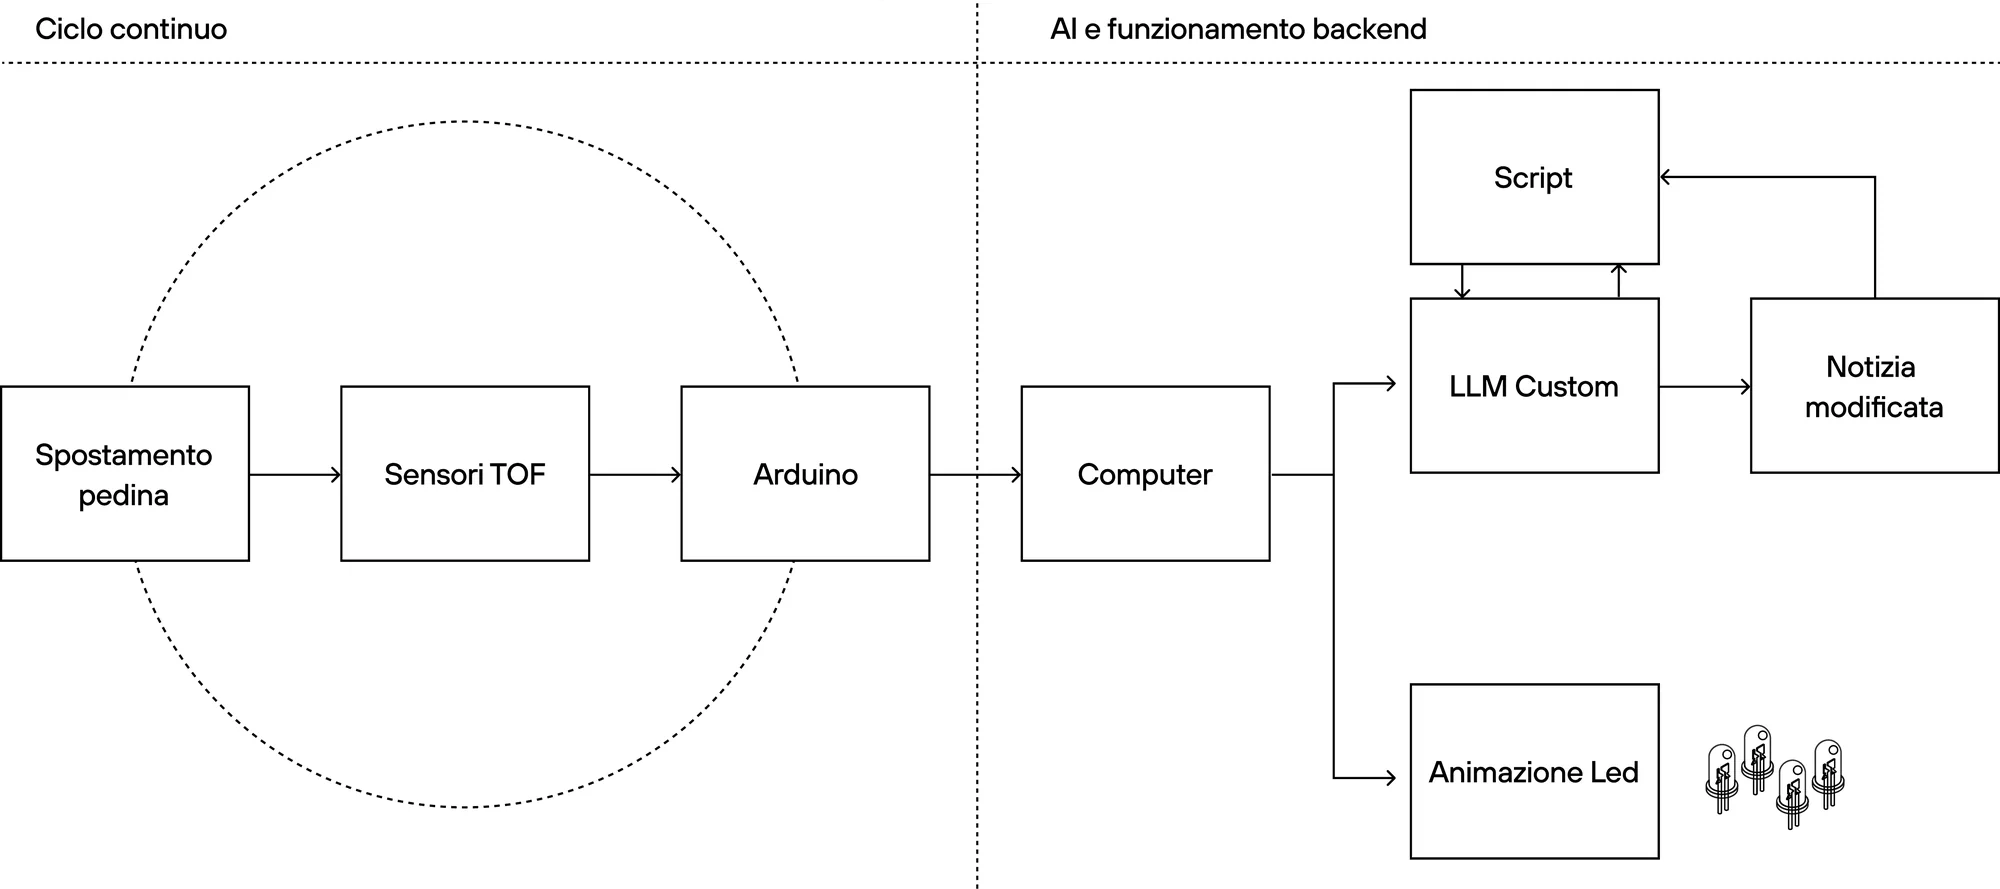
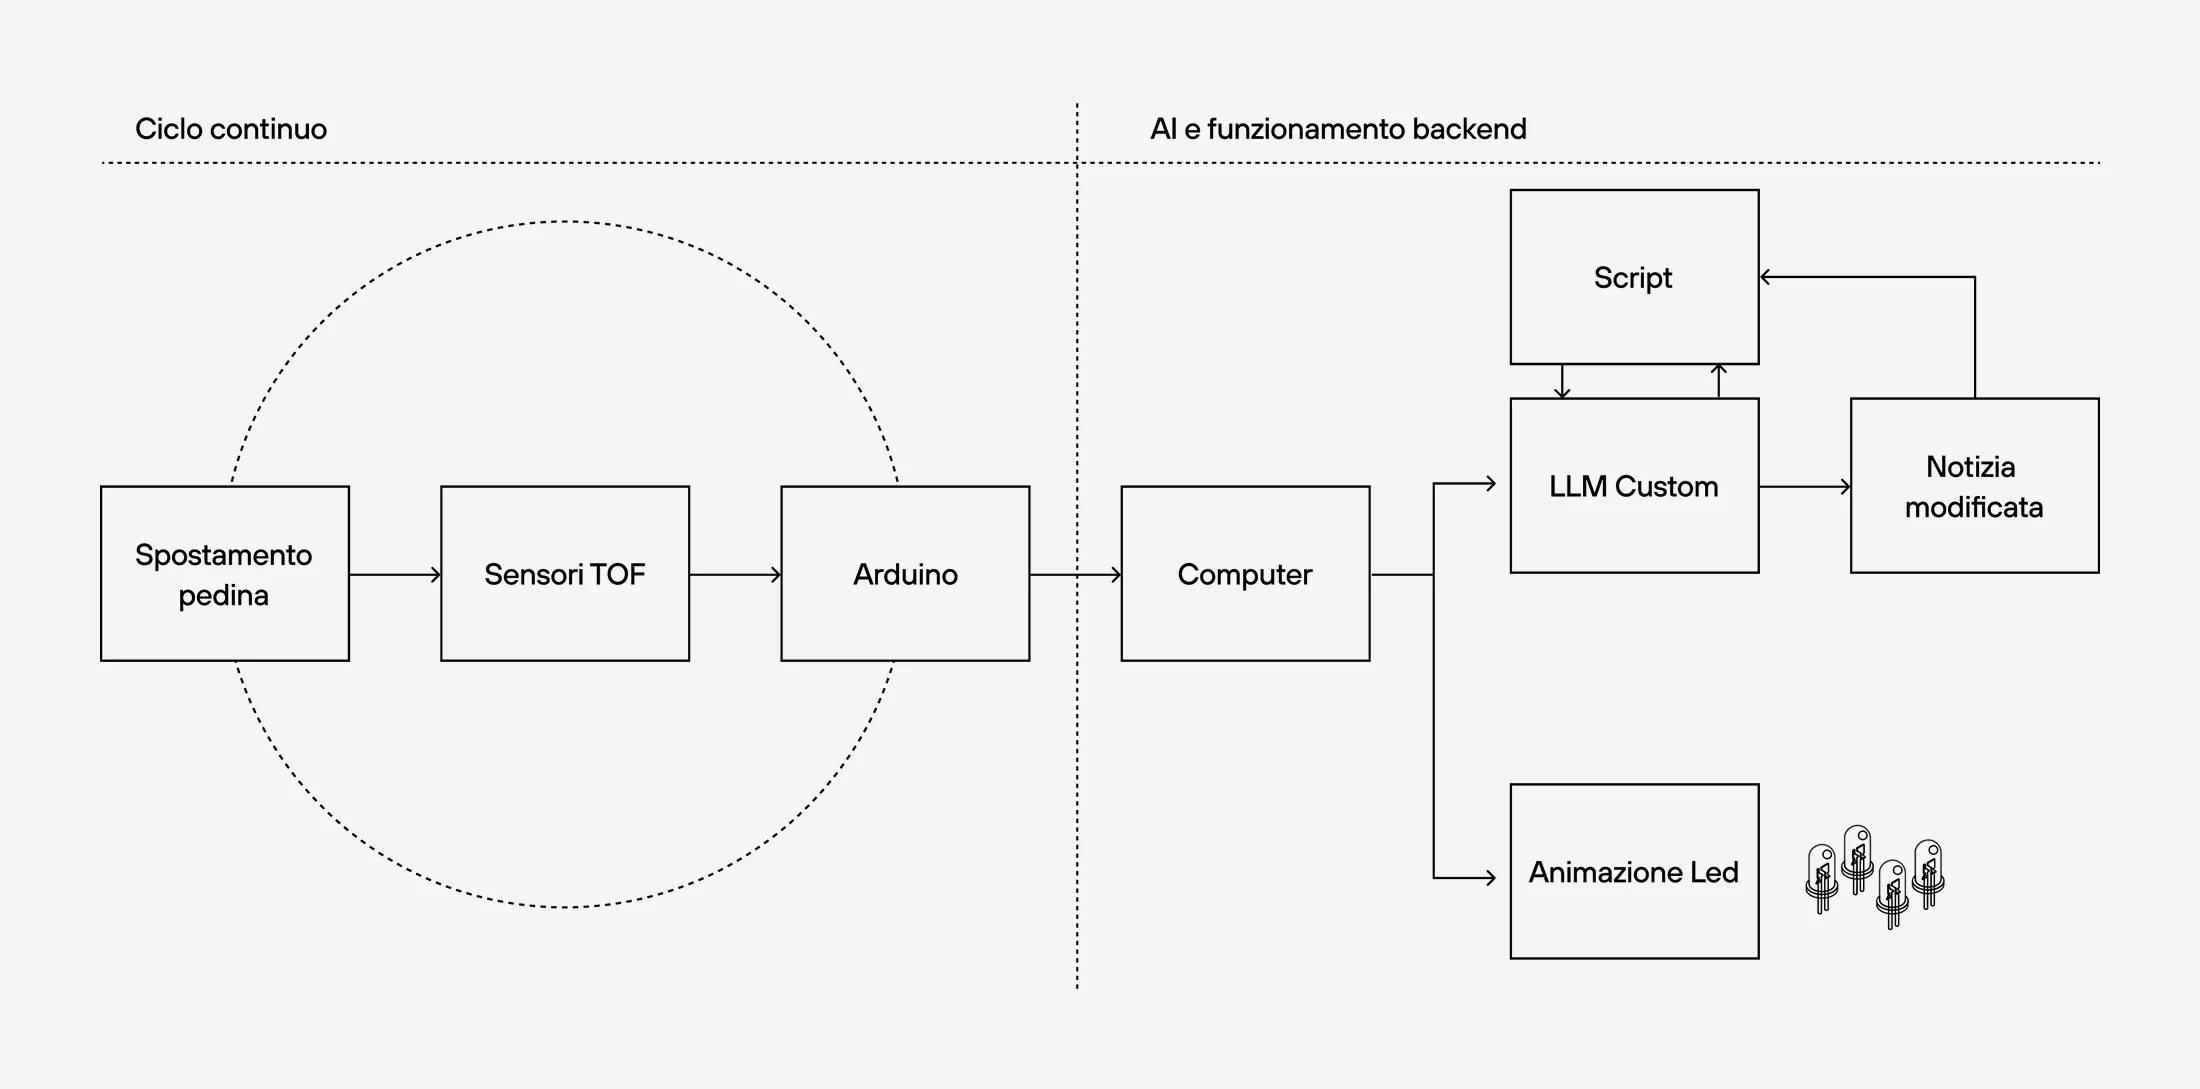
Fragma: schemi senza cornici nere, matrice LED ridisegnata in alta risoluzione, immagini affiancate alla stessa altezza
Claude-Session: https://claude.ai/code/session_01EvswACSyw6Saf2qPUK2J63

diff --git a/v3/fragma.html b/v3/fragma.html
@@ -145,11 +145,11 @@
                 </div>
             </div>
             <div class="figs">
-                <figure class="diagram"><img src="img/fragma/flow.webp" alt="Diagramma del flusso: start, istruzioni, notizia, parametri, sposta le pedine, invio, pubblica" width="2000" height="892" loading="lazy"></figure>
+                <figure><img src="img/fragma/flow.webp" alt="Diagramma del flusso: start, istruzioni, notizia, parametri, sposta le pedine, invio, pubblica" width="2200" height="1092" loading="lazy"></figure>
                 <p class="cap"><span lang="it">Il flusso dell’esperienza nelle sue quattro fasi: prossimità, attrito, shock, aftermath.</span><span lang="en">The flow of the experience in its four phases: proximity, friction, shock, aftermath.</span></p>
                 <div class="row">
-                    <figure class="diagram" style="flex-grow:1.355"><img src="img/fragma/loop.webp" alt="Disegno di una persona davanti alla macchina con le frecce del ciclo di interazione" width="1400" height="1033" loading="lazy"></figure>
-                    <figure class="diagram" style="flex-grow:2.89"><img src="img/fragma/parametri.webp" alt="Schema che collega i sei parametri alle figure retoriche" width="2000" height="692" loading="lazy"></figure>
+                    <figure style="flex-grow:0.856"><img src="img/fragma/loop.webp" alt="Disegno di una persona davanti alla macchina con le frecce del ciclo di interazione" width="1366" height="1596" loading="lazy"></figure>
+                    <figure style="flex-grow:2.556"><img src="img/fragma/parametri.webp" alt="Schema che collega i sei parametri alle figure retoriche" width="2280" height="892" loading="lazy"></figure>
                 </div>
                 <p class="cap"><span lang="it">A sinistra il ciclo gesto, risposta, ripensamento. A destra i sei parametri e le figure retoriche che ognuno chiede al modello.</span><span lang="en">Left, the gesture, response, rethinking loop. Right, the six parameters and the rhetorical devices each one asks the model to use.</span></p>
             </div>
@@ -173,8 +173,8 @@
             </div>
             <div class="figs">
                 <div class="row">
-                    <figure class="diagram" style="flex-grow:2.25"><img src="img/fragma/backend.webp" alt="Schema: spostamento pedina, sensori ToF, Arduino, computer, LLM, notizia modificata e animazione LED" width="2000" height="889" loading="lazy"></figure>
-                    <figure class="diagram" style="flex-grow:0.966"><img src="img/fragma/esploso.webp" alt="Esploso della macchina con pedine, piastra, plexiglass e struttura" width="1200" height="1242" loading="lazy"></figure>
+                    <figure style="flex-grow:2.020"><img src="img/fragma/backend.webp" alt="Schema: spostamento pedina, sensori ToF, Arduino, computer, LLM, notizia modificata e animazione LED" width="2200" height="1089" loading="lazy"></figure>
+                    <figure style="flex-grow:0.800"><img src="img/fragma/esploso.webp" alt="Esploso della macchina con pedine, piastra, plexiglass e struttura" width="1094" height="1368" loading="lazy"></figure>
                 </div>
                 <p class="cap"><span lang="it">Dal gesto alla notizia modificata, e l’esploso della macchina: pedine, piastra in metallo, plexiglass, LED ed elettronica.</span><span lang="en">From gesture to rewritten story, and the exploded view of the machine: pieces, metal plate, acrylic, LEDs and electronics.</span></p>
             </div>
@@ -227,10 +227,10 @@
             <div class="figs">
                 <div class="row">
                     <figure style="flex-grow:0.75"><img src="img/fragma/prototipo.webp" alt="Il prototipo in costruzione su una struttura di legno con i cavi a vista" width="1200" height="1600" loading="lazy"></figure>
-                    <figure class="diagram" style="flex-grow:1.147"><img src="img/fragma/led.webp" alt="Schema della posizione delle matrici LED sotto la plancia" width="1083" height="944" loading="lazy"></figure>
+                    <figure style="flex-grow:1.137"><img src="img/fragma/led.webp" alt="Schema della posizione delle matrici LED sotto la plancia" width="1250" height="1099" loading="lazy"></figure>
                 </div>
                 <p class="cap"><span lang="it">Il prototipo in costruzione, gennaio 2026, e la posizione delle matrici LED 8×8 sotto la plancia.</span><span lang="en">The prototype under construction, January 2026, and the layout of the 8×8 LED matrices under the board.</span></p>
-                <figure class="diagram diagram--small"><img src="img/fragma/tof.webp" alt="Schema del sensore ToF che misura la distanza dalla pedina" width="1400" height="508" loading="lazy"></figure>
+                <figure class="narrow"><img src="img/fragma/tof.webp" alt="Schema del sensore ToF che misura la distanza dalla pedina" width="1540" height="648" loading="lazy"></figure>
                 <p class="cap"><span lang="it">Il sensore ToF misura la distanza dalla pedina lungo il suo asse.</span><span lang="en">The ToF sensor measures the distance to the piece along its axis.</span></p>
             </div>
         </section>
